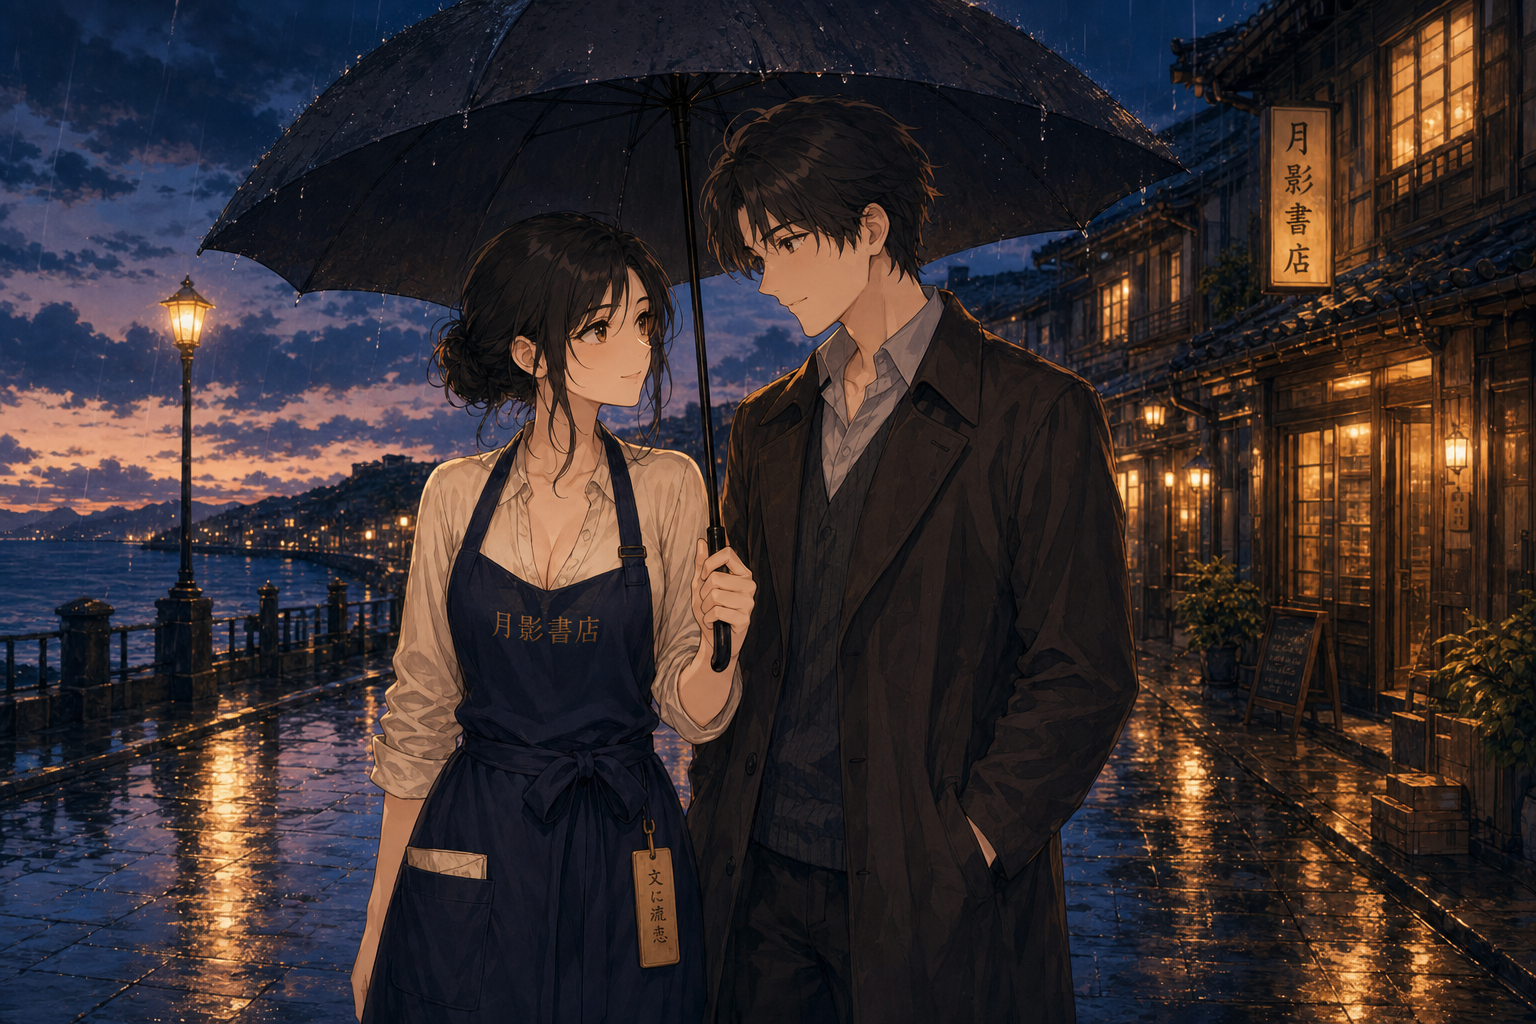
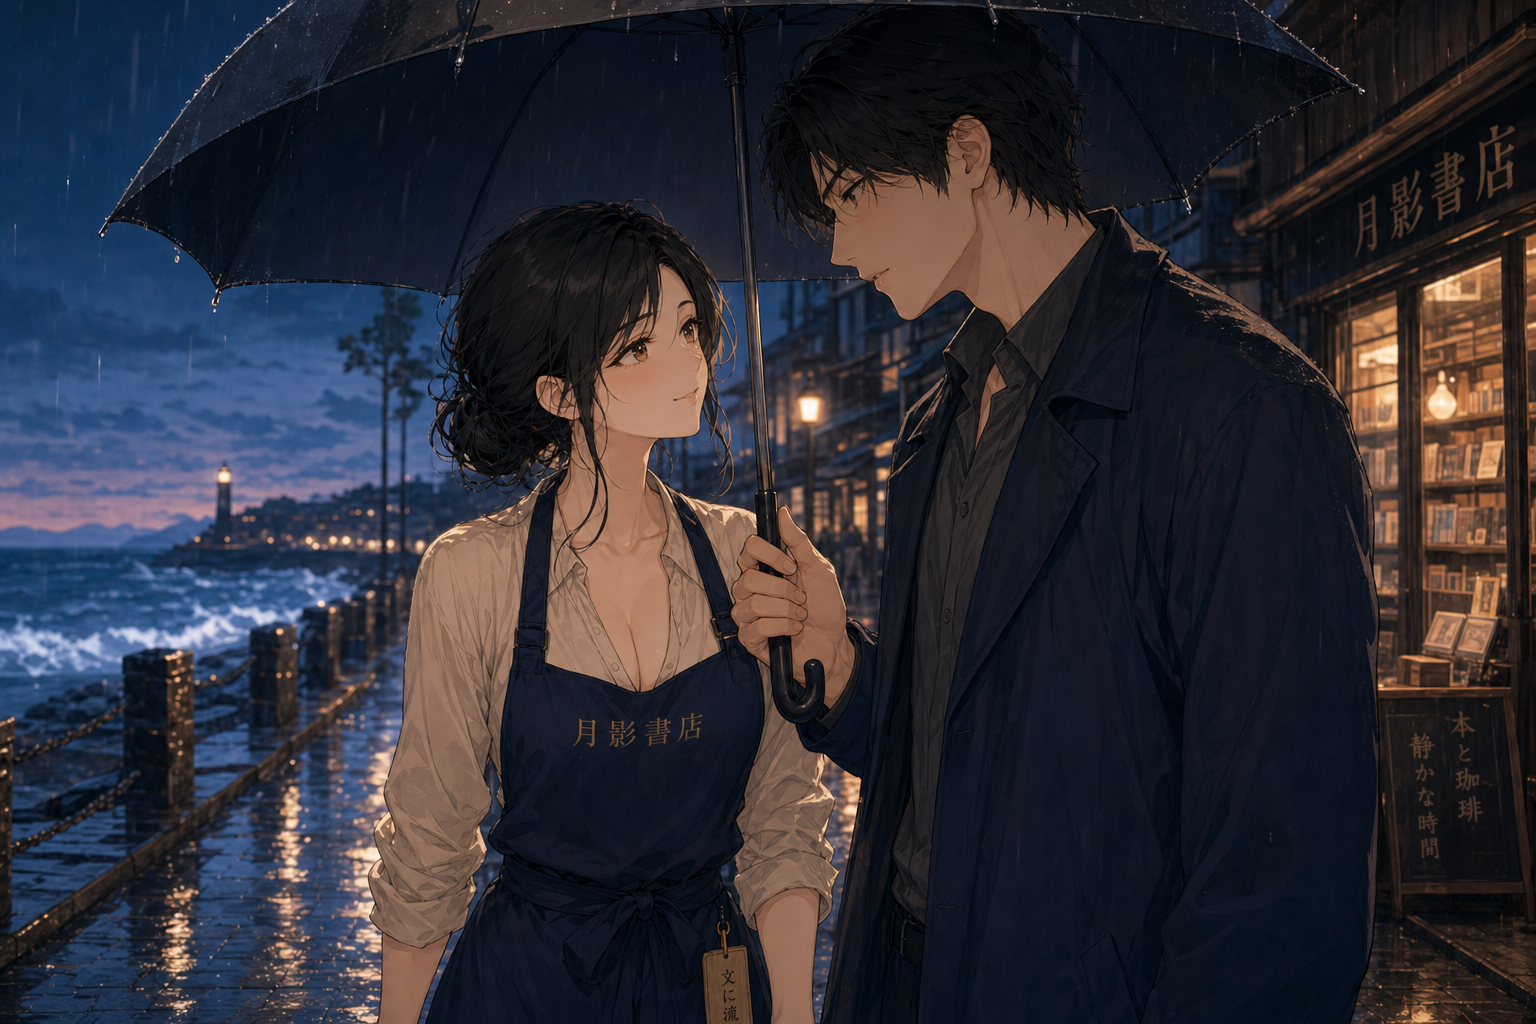
fix(assets): 重绘穿模与人设偏差的 CG
- 旧伞/雨困一夜：修正手部结构
- 关店夜话：恢复晚棠围裙人设
- 市集早晨：修正提篮手与篮内海鲜

diff --git a/src/data/assets.ts b/src/data/assets.ts
@@ -6,7 +6,7 @@
  *
  * ASSET_VER：换图后递增，强制浏览器绕过旧缓存
  */
-export const ASSET_VER = '20260802h'
+export const ASSET_VER = '20260802i'
 
 function asset(path: string): string {
   if (!path) return path
